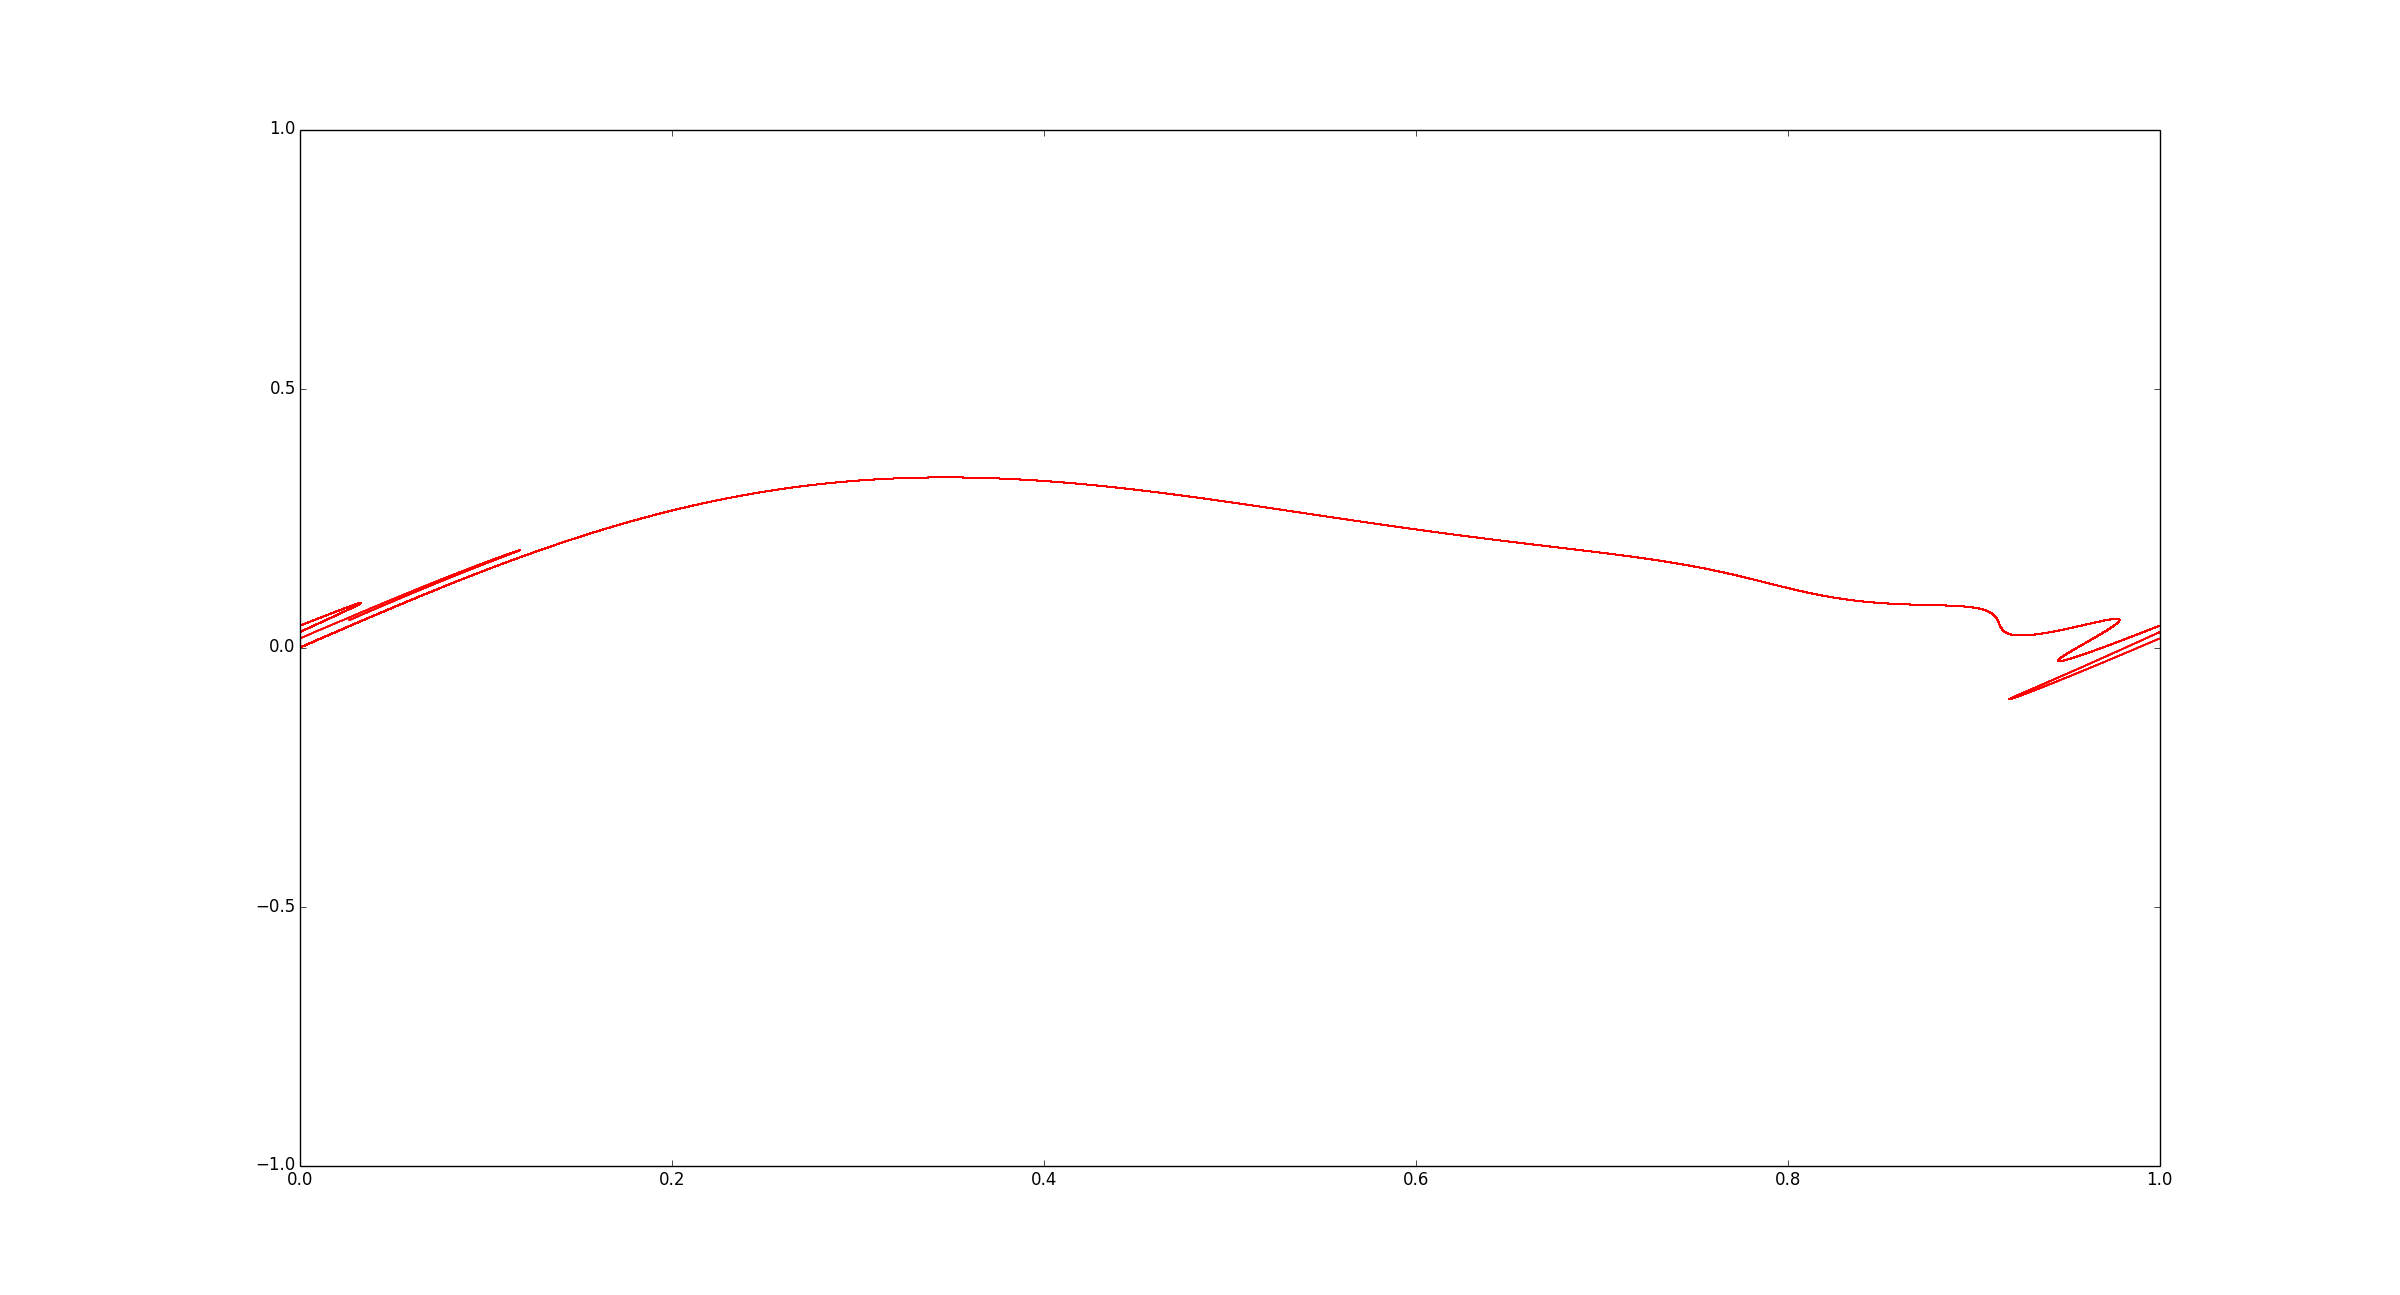
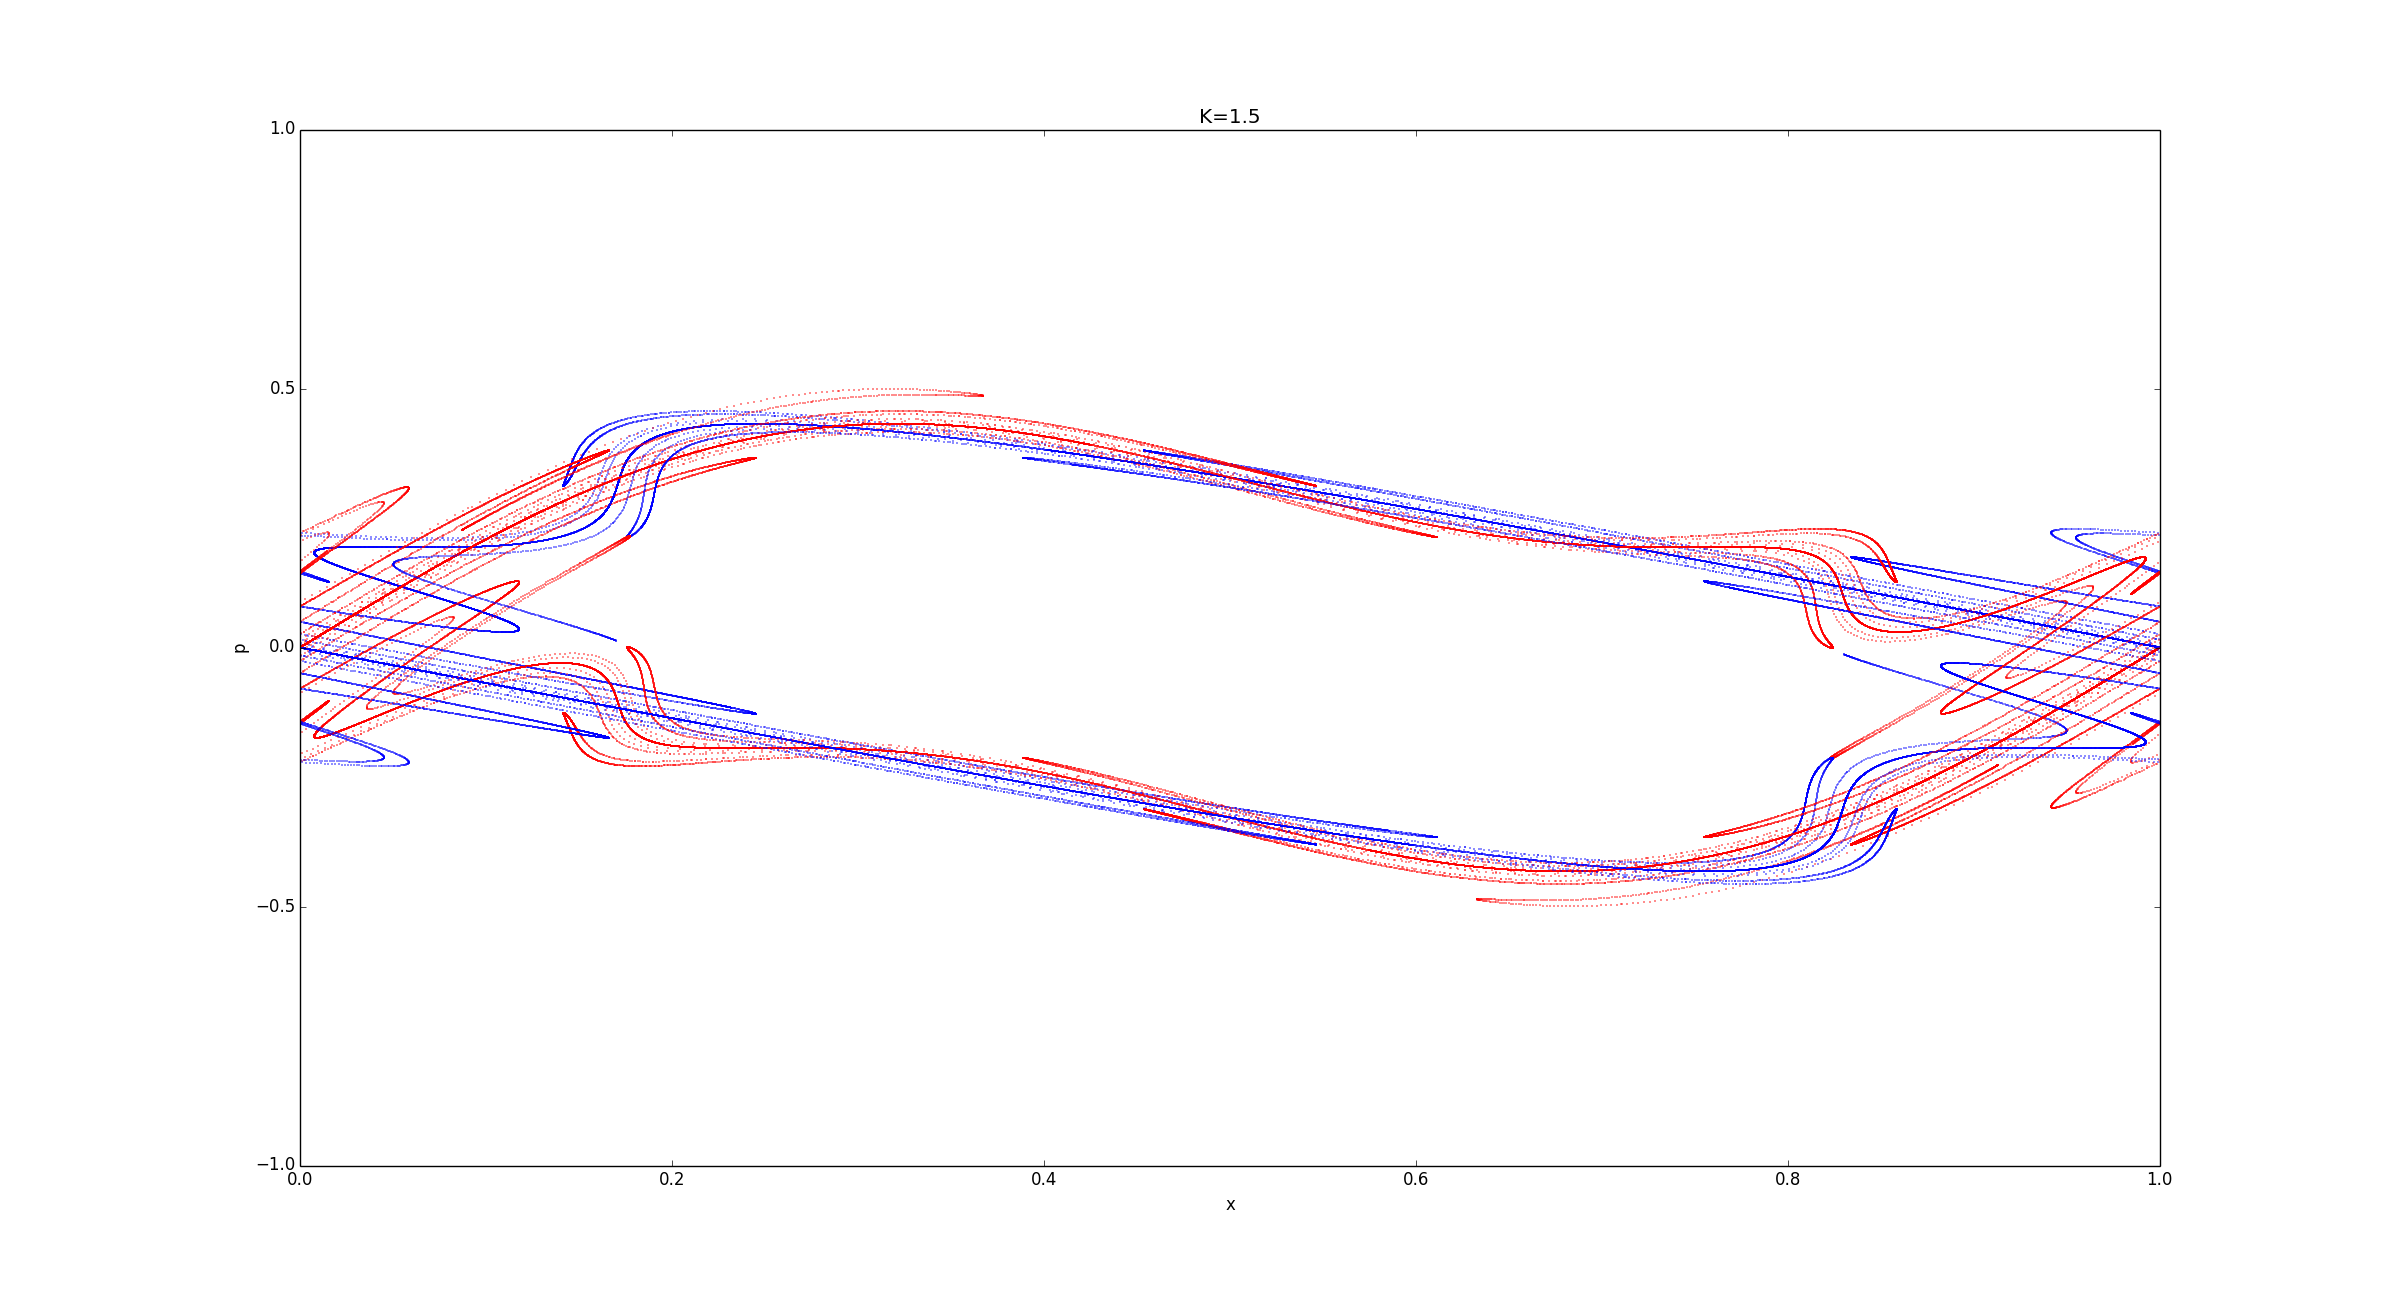
z72

Changed region(s): [[0.125, 0.3089, 0.9062, 0.7104]]

diff --git a/zettel 7/z7aufg2.py b/zettel 7/z7aufg2.py
@@ -12,9 +12,11 @@ import time
 
 
 #Parameters:
-K=1.5
-iters=15
-
+K=0.5
+iters=16
+anzx=25
+anzy=25
+phaseiters=20
 
 #Map:
 def stand(X,K):
@@ -36,8 +38,17 @@ start = time.time()
 ############################
 
 fig=plt.figure()
-a=np.linspace(-10e-6,10e-6,1000)
+a=np.linspace(-10e-6,10e-6,2000)
 
+##plot phase portrait:
+for i in range(anzx):
+    for j in range(anzy):
+            x=np.array([i*1/float(anzx),j*1/float(anzy)])       
+            for m in range(phaseiters):
+                x=stand(X=x,K=K) 
+                plt.plot(x[0],x[1],'k.',ms=0.3)
+
+### plot mannigfaltigkeit
 for a in a:
     x1=a*EV1(K)
     x2=a*EV2(K)
@@ -47,11 +58,16 @@ for a in a:
         x1=stand(X=x1,K=K)
         plt.plot(x1[0],x1[1],'r.',ms=1)
 
+
+
+
+plt.title('K=0.5')
 plt.xlim(0,1)
 plt.ylim(-1,1)
 plt.xlabel('x')
 plt.ylabel('p')
-plt.show()
+
+
 
 ############################
 stop = time.time()
